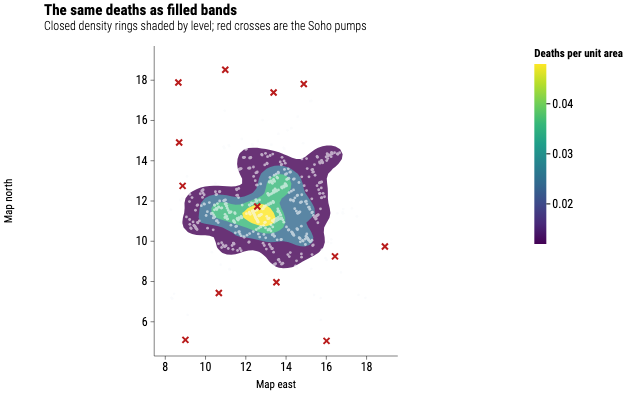
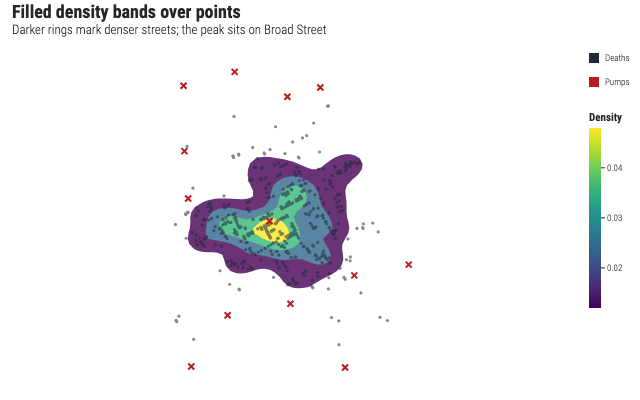
fix(examples): unslop kde-2d-filled and make death marks visible
Rewrite the filled density gallery page so it stands alone (no "the same as"
cross-example diction), switch to theme_map, dark death marks with a Deaths/
Pumps color legend, and recapture the light preview. Dataset checked against
HistData Snow.deaths/pumps — not corrupted.

diff --git a/examples/density/kde-2d-filled/Example.svelte b/examples/density/kde-2d-filled/Example.svelte
@@ -6,9 +6,8 @@
     GGPlot,
     Inspect,
     Labs,
-    ScaleXContinuous,
-    ScaleYContinuous,
-    ThemeClassic,
+    ScaleColorManual,
+    ThemeMap,
   } from "@ggsvelte/svelte";
 
   import { choleraDeaths, waterPumps } from "./data.js";
@@ -16,23 +15,30 @@
 
 <GGPlot data={choleraDeaths} aes={{ x: "x", y: "y" }} width={640} height={400}>
   <GeomDensity2dFilled bins={6} n={48} alpha={0.8} />
-  <GeomPoint alpha={0.6} size={1.4} aes={{ color: { value: "#f8fafc" } }} />
+  <GeomPoint
+    alpha={0.55}
+    size={1.6}
+    aes={{ color: { value: "Deaths", scale: true } }}
+  />
   <GeomPoint
     data={waterPumps}
-    aes={{ x: "x", y: "y", color: { value: "#b91c1c" } }}
+    aes={{ x: "x", y: "y", color: { value: "Pumps", scale: true } }}
     size={4}
     shape="cross"
   />
+  <ScaleColorManual
+    domain={["Deaths", "Pumps"]}
+    values={["#1e293b", "#b91c1c"]}
+  />
   <CoordFixed />
-  <ScaleXContinuous breaks={[8, 10, 12, 14, 16, 18]} />
-  <ScaleYContinuous breaks={[6, 8, 10, 12, 14, 16, 18]} />
-  <ThemeClassic />
+  <ThemeMap />
   <Labs
-    title="The same deaths as filled bands"
-    subtitle="Closed density rings shaded by level; red crosses are the Soho pumps"
-    x="Map east"
-    y="Map north"
-    fill="Deaths per unit area"
+    title="Filled density bands over points"
+    subtitle="Darker rings mark denser streets; the peak sits on Broad Street"
+    x=""
+    y=""
+    fill="Density"
+    color=""
   />
   <Inspect mode="xy" pin maxDistance={24} />
 </GGPlot>

diff --git a/examples/density/kde-2d-filled/spec.ts b/examples/density/kde-2d-filled/spec.ts
@@ -7,28 +7,30 @@ export default defineExample(
   gg(choleraDeaths, aes({ x: "x", y: "y" }))
     .geomDensity2dFilled({ bins: 6, n: 48, alpha: 0.8 })
     .geomPoint({
-      alpha: 0.6,
-      size: 1.4,
-      aes: aes({ color: { value: "#f8fafc" } }),
+      alpha: 0.55,
+      size: 1.6,
+      aes: aes({ color: { value: "Deaths", scale: true } }),
     })
     .geomPoint({
       data: waterPumps,
-      aes: aes({ x: "x", y: "y", color: { value: "#b91c1c" } }),
+      aes: aes({ x: "x", y: "y", color: { value: "Pumps", scale: true } }),
       size: 4,
       shape: "cross",
     })
-    .scales({
-      x: { breaks: [8, 10, 12, 14, 16, 18] },
-      y: { breaks: [6, 8, 10, 12, 14, 16, 18] },
+    .scaleColorManual({
+      domain: ["Deaths", "Pumps"],
+      values: ["#1e293b", "#b91c1c"],
     })
     .coordFixed()
-    .theme("classic")
+    .theme("map")
     .labs({
-      title: "The same deaths as filled bands",
-      subtitle: "Closed density rings shaded by level; red crosses are the Soho pumps",
-      x: "Map east",
-      y: "Map north",
-      fill: "Deaths per unit area",
+      title: "Filled density bands over points",
+      subtitle: "Darker rings mark denser streets; the peak sits on Broad Street",
+      // theme_map blanks tick labels; empty x/y suppress the field-name fallbacks.
+      x: "",
+      y: "",
+      fill: "Density",
+      color: "",
     })
     .spec(),
 );

diff --git a/examples/manifest.ts b/examples/manifest.ts
@@ -256,9 +256,9 @@ export const EXAMPLES: readonly ExampleManifestEntry[] = [
     id: "density/kde-2d-filled",
     category: "density",
     name: "kde-2d-filled",
-    title: "Cholera deaths as filled density bands",
-    description: "The same 1854 Soho map, with the density drawn as closed bands rather than lines: the darkest band covers the streets fed by the Broad Street pump.",
-    tags: ["density", "density_2d_filled", "kde", "fill", "stat", "contour"],
+    title: "Filled 2D density bands",
+    description: "Kernel density drawn as shaded rings over 578 point locations. Darker bands sit where the points are densest — here, the streets around one pump on Snow's 1854 Soho map.",
+    tags: ["density", "density_2d_filled", "kde", "fill", "stat", "contour", "map"],
     docsSection: "Statistical summaries",
     hasData: true,
   },
